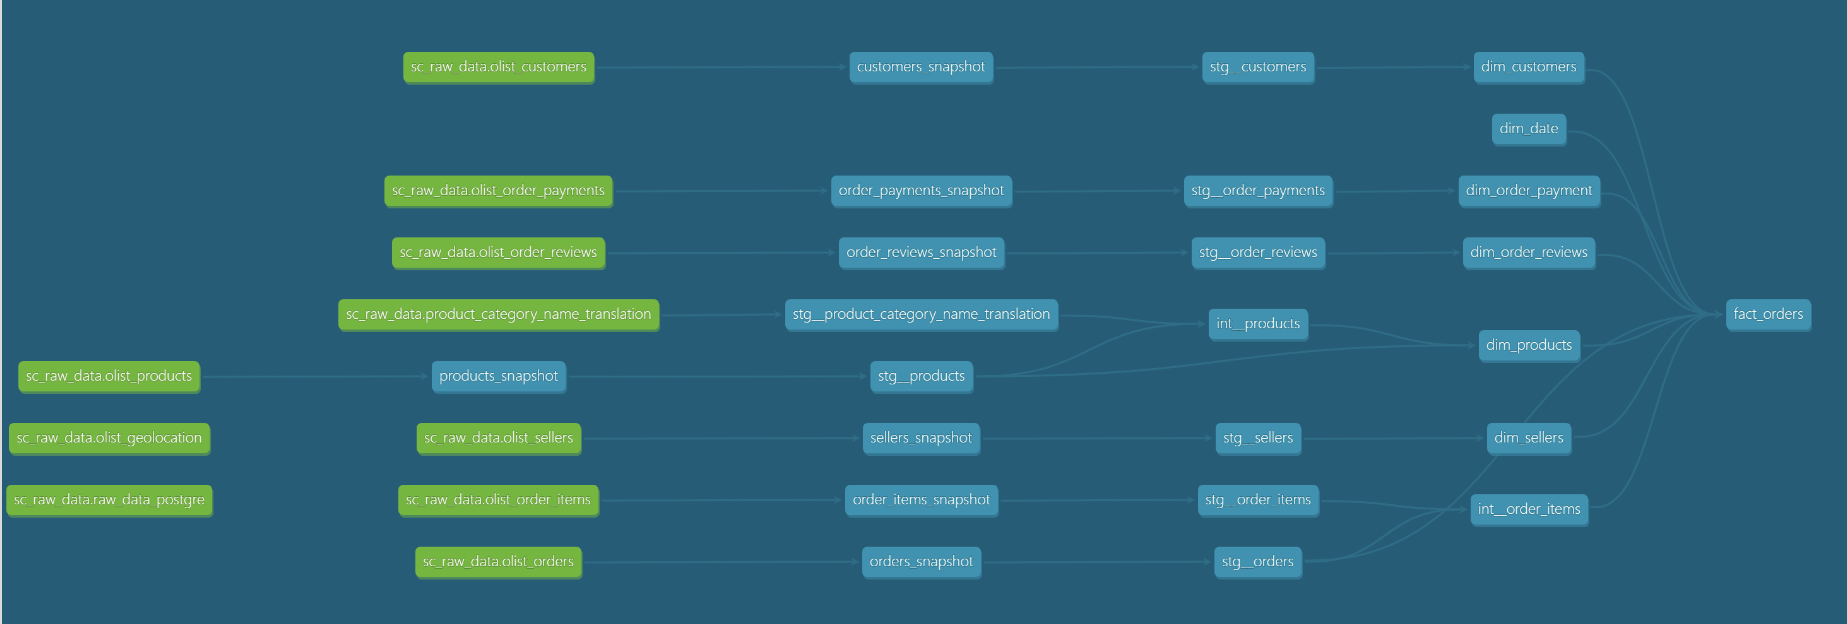
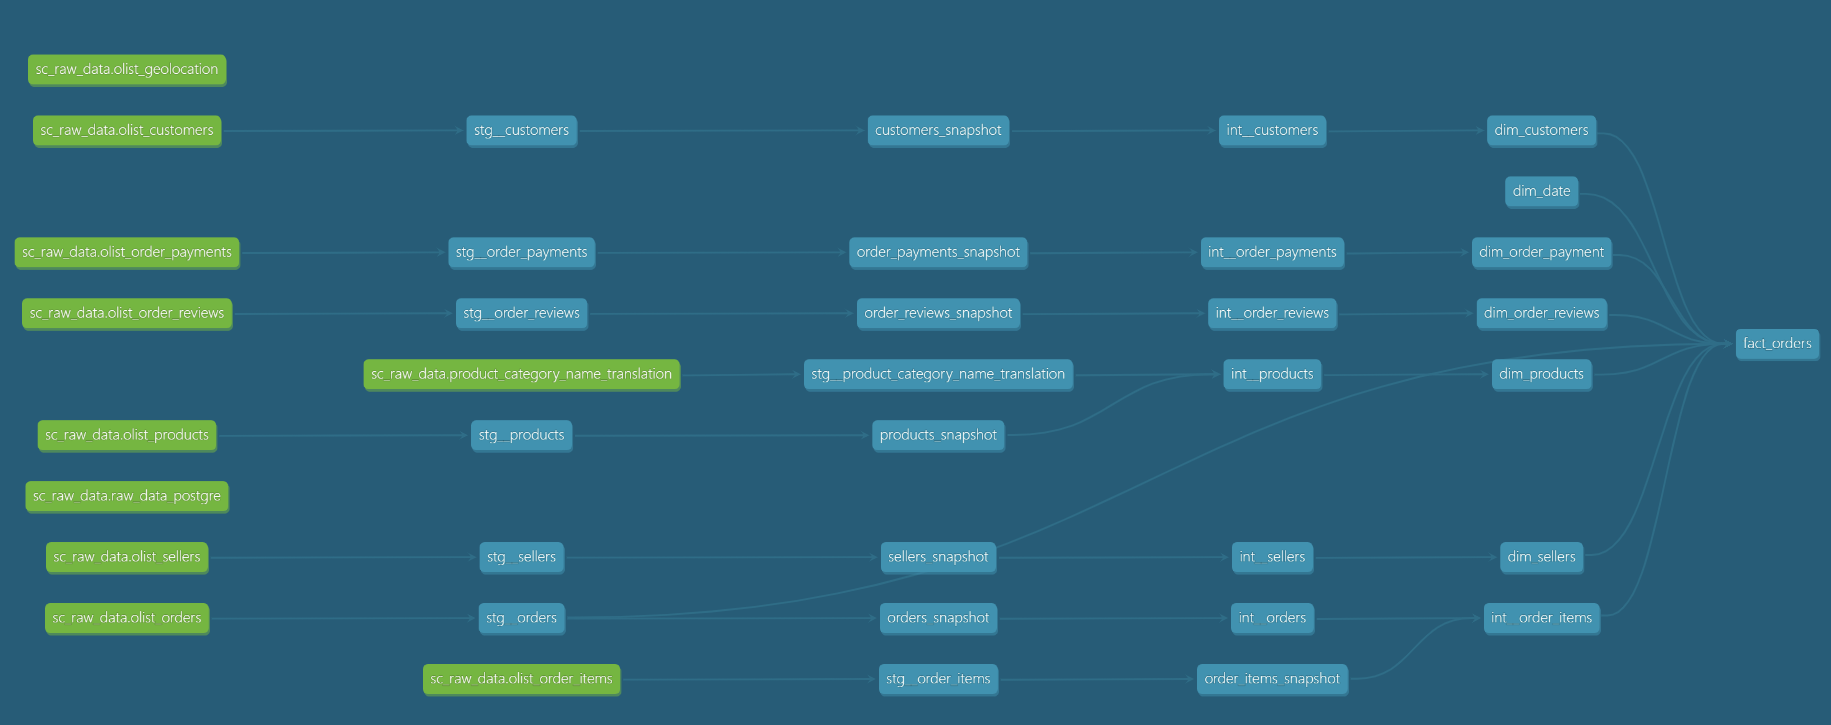
feat: Add documentation for hybrid search implementation, Chainlit UI integration, and Metabase analytics

diff --git a/docs/extra-feature/extra-feature.md b/docs/extra-feature/extra-feature.md
@@ -1,0 +1,76 @@
+**Extra Feature: Hybrid Search + Chainlit UI + Metabase Analytics**
+
+- **Overview:** Concise reference for the hybrid search implementation (semantic + lexical RRF), recommended Chainlit UI elements for the AI agent, and Metabase analytics guidance for mart-layer business metrics.
+
+**Hybrid Search (RRF Hybrid)**:
+- **Description:** Combines dense (semantic) and sparse (lexical) search, then re-ranks documents using Reciprocal Rank Fusion (RRF). Implementation located in `ai-agent/tools/rag_combined_tools.py` as `hybrid_search_documents`.
+- **Key behavior:**
+  - Runs dense semantic search (embedding + vector query) and sparse lexical search (sparse embedding + sparse query).
+  - Collects top `k` (default `rrf_k=60`) from each and builds rank maps.
+  - Keeps only documents returned by BOTH searches (high confidence) and computes RRF score: `1/(k + dense_rank) + 1/(k + sparse_rank)`.
+  - Returns top `top_k` results with `rrf_score`, ranks, scores, excerpt, source, and chunk id.
+- **Inputs:**
+  - `query` (string) — user query
+  - `top_k` (int, default 3) — results to return
+  - `rrf_k` (int, default 60) — RRF constant used in formula
+- **Outputs (summary):** `results` array of objects with `rank`, `rrf_score`, `dense_rank`, `sparse_rank`, `dense_score`, `sparse_score`, `content`, `source`, `chunk_id`.
+- **Environment / Prereqs:**
+  - Pinecone API keys and index names set in env: `PINECONE_API_KEY`, `PINECONE_DENSE_INDEX_NAME`, `PINECONE_SPARSE_INDEX_NAME`.
+  - Embedding models used in code: `llama-text-embed-v2` (dense) and `pinecone-sparse-english-v0` (sparse) — adjust to your stack if different.
+- **Usage tips:**
+  - Tune `rrf_k` based on corpus size (larger corpora → larger `k`).
+  - Consider returning some docs that appear in only one search when coverage is low (optional flag) to increase recall.
+  - Show both `dense_score` and `sparse_score` to users for transparency.
+
+**Chainlit UI Integration**:
+- **Goal:** Present hybrid search results in a chat-style UI; allow follow-ups, source-citation, and expanded context preview.
+- **Recommended components / elements:**
+  - **Chat messages:** default conversation UI for user query and assistant answers.
+  - **Result cards:** For each hybrid result, show short excerpt, `rrf_score`, `source`, and two actions: `Show more` and `Cite`. Use collapsible panels for full chunk text.
+  - **Buttons:** `Open source` (link to original doc), `More context` (fetch adjacent chunks), `Ask about this chunk` (send chunk back as context for LLM).
+  - **Metadata display:** Small tag area for `dense_score`, `sparse_score`, `chunk_id`, and `source`.
+  - **Inline tool calling:** Wire a Chainlit tool call to `hybrid_search_documents(query, top_k, rrf_k)` and render results as cards.
+  - **Feedback controls:** `Helpful` / `Not helpful` to collect training signals; optionally store feedback to DB.
+  - **Cite & Trace:** When composing answers, include short citations in the reply (e.g., `(source: SalesMart—chunk-123)`) and an optional expanded sources panel.
+- **Suggested UX flow:**
+  1. User asks question in chat.
+  2. Agent calls hybrid search tool.
+  3. Render top results as cards with `Show more` and `Cite` actions.
+  4. If user asks follow-up, pass chosen chunk(s) as context for the LLM; allow multi-turn refinement.
+- **Implementation notes:**
+  - Keep tool calls async to avoid blocking UI; show loading placeholders.
+  - Rate-limit or cache embeddings/queries for repeated or similar queries.
+  - Respect privacy and access controls when linking to sources.
+
+**Metabase — Data Analytics for Mart Layers**:
+- **Objective:** Use Metabase to analyze business metrics derived from mart-layer tables (marts), and surface insights inside dashboards and links the AI agent can reference.
+- **Recommended dashboards / KPIs:**
+  - **Sales Overview:** total revenue, average order value, orders by mart (daily/weekly/monthly), top products.
+  - **Customer Health / Retention:** cohort retention, churn rate, LTV estimates.
+  - **Operational Metrics:** ETL freshness, data latency, failed loads per mart.
+  - **Business Value Reports:** revenue by region/segment, margin by product line, campaign ROI.
+- **Technical integration:**
+  - Ensure marts are materialized and accessible to Metabase with a read-only DB user.
+  - Build SQL questions in Metabase referencing mart tables (staging → intermediate → marts pattern).
+  - Use Metabase Cards and Dashboards; set up scheduled email reports or public links (if safe).
+- **Embedding in AI agent UI:**
+  - Provide dashboard links in the agent UI and allow the user to open dashboards in a new tab.
+  - Optionally, expose summarized KPIs in the chat (agent queries the DB or an API to fetch small numeric summaries and returns them inline).
+- **Security / Governance:**
+  - Limit Metabase dashboard visibility to appropriate roles.
+  - Avoid exposing PII in public links or automated agent responses.
+
+**Files & Code references**
+- **Hybrid search implementation:** `ai-agent/tools/rag_combined_tools.py` (function `hybrid_search_documents`).
+- **Chainlit UI files:** (where you implement UI) `ai-agent/chainlit/` — create renderers and tool hooks that call the hybrid search tool.
+- **Metabase guidance:** store queries in your `capstone_project` or document SQL queries in `docs/` for reproducibility.
+
+**Next steps**
+- Wire `hybrid_search_documents` to a Chainlit tool wrapper and implement result card rendering.
+- Create a small Metabase dashboard for primary KPIs; add dashboard links to the agent UI.
+
+---
+
+If you want, I can now:
+- Implement a Chainlit tool wrapper and sample UI components that call `hybrid_search_documents` and render cards, or
+- Create sample Metabase SQL queries for specific mart tables (tell me which mart tables/metrics you care about).
